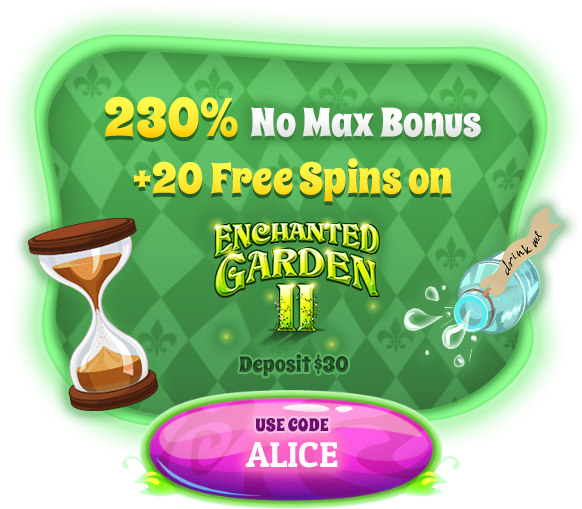
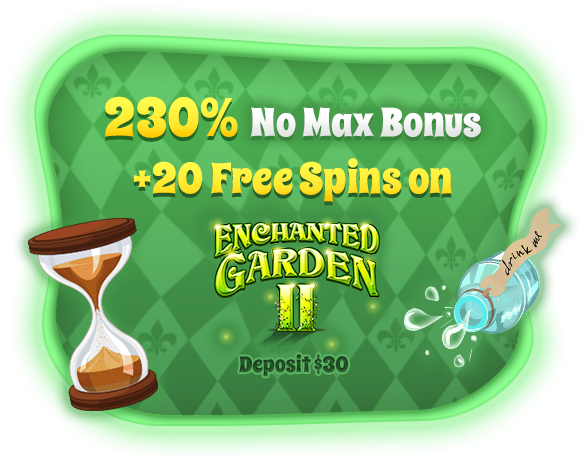
coupons update

diff --git a/src/pages/Homepage/index.js b/src/pages/Homepage/index.js
@@ -53,12 +53,10 @@ class Homepage extends Component {
                       <Col className="d-flex align-items-center justify-content-center justify-content-md-start homepage__character--big mx-auto">
                         <Character
                           onClick={() => {
-                            characters.actions.showSingleCharacter(
-                              queenOfHearts.id
-                            );
+                            characters.actions.showSingleCharacter(alice.id);
                           }}
-                          name={queenOfHearts.name}
-                          image={queenOfHearts.image}
+                          name={alice.name}
+                          image={alice.image}
                           translateX={getRandomInt(5, 15)}
                           translateY={getRandomInt(5, 15)}
                           rotateZ={getRandomInt(4, 8)}
@@ -89,7 +87,7 @@ class Homepage extends Component {
                   {/* Center column start */}
                   <Col className="d-block d-md-flex flex-column order-0 order-md-1 mt-3">
                     <Row className="flex-grow-1 flex-column">
-                      <Col className="d-flex flex-column justify-content-start align-items-center">
+                      <Col className="text-center">
                         <a href="https://www.silveroakcasino.com/">
                           <img
                             src={casinoLogo}
@@ -104,21 +102,21 @@ class Homepage extends Component {
                         <p className="text-white text-center mt-1 mt-md-4 text--accent">
                           Click on a character to reveal your Bonus.
                         </p>
-                      </Col>
-                    </Row>
-                    <Row className="flex-grow-1">
-                      <Col className="d-flex justify-content-center  homepage__character--main mx-auto">
-                        <Character
-                          onClick={() => {
-                            characters.actions.showSingleCharacter(alice.id);
-                          }}
-                          name={alice.name}
-                          image={alice.image}
-                          translateX={getRandomInt(5, 15)}
-                          translateY={getRandomInt(5, 15)}
-                          rotateZ={getRandomInt(4, 8)}
-                          animationDuration={6}
-                        />
+                        <div className="f-flex justify-content-center  homepage__character--main mx-auto mt-0 mt-md-5">
+                          <Character
+                            onClick={() => {
+                              characters.actions.showSingleCharacter(
+                                madHatter.id
+                              );
+                            }}
+                            name={madHatter.name}
+                            image={madHatter.image}
+                            translateX={getRandomInt(5, 15)}
+                            translateY={getRandomInt(5, 15)}
+                            rotateZ={getRandomInt(4, 8)}
+                            animationDuration={6}
+                          />
+                        </div>
                       </Col>
                     </Row>
                   </Col>
@@ -131,11 +129,11 @@ class Homepage extends Component {
                         <Character
                           onClick={() => {
                             characters.actions.showSingleCharacter(
-                              madHatter.id
+                              queenOfHearts.id
                             );
                           }}
-                          name={madHatter.name}
-                          image={madHatter.image}
+                          name={queenOfHearts.name}
+                          image={queenOfHearts.image}
                           translateX={getRandomInt(5, 15)}
                           translateY={getRandomInt(5, 15)}
                           rotateZ={getRandomInt(4, 8)}

diff --git a/src/components/CouponModal/index.js b/src/components/CouponModal/index.js
@@ -1,7 +1,7 @@
 // Dependecies
 import React from 'react';
 import { Modal } from 'react-bootstrap';
-import styled from 'styled-components';
+import styled, { keyframes } from 'styled-components';
 
 // Context
 import { Consumer } from '../../context/AppContext';
@@ -10,6 +10,7 @@ import { Consumer } from '../../context/AppContext';
 import './index.scss';
 
 const CloseButton = styled.button`
+  display: block;
   position: absolute;
   top: ${props => (props.exception ? '-7px' : 0)};
   right: ${props => (props.exception ? '22px' : 0)};
@@ -32,6 +33,67 @@ const CloseButton = styled.button`
   }
 `;
 
+const CTA = styled.a`
+  display: block;
+  position: absolute;
+  bottom: 0;
+  left: ${props => (props.exception ? '46%' : '50%')};
+  transform: translateX(-50%) translateY(40%);
+  width: 300px;
+  height: 105px;
+  background: url(${props => props.ctaImage}) center center / cover;
+  /* overflow: hidden; */
+  z-index: 2;
+  @media (max-width: 576px) {
+    width: 50vw;
+    height: 17.6vw;
+    left: ${props => (props.exception ? '48%' : '50%')};
+  }
+`;
+
+const glow = keyframes`
+0% {
+  box-shadow: 0px 0px 25px 30px #65b434;
+}
+50% {
+  box-shadow: 0px 0px 25px 5px #65b434;
+}
+100% {
+  box-shadow: 0px 0px 25px 30px #65b434;
+}
+`;
+const glowSmall = keyframes`
+0% {
+  box-shadow: 0px 0px 15px 18px #65b434;
+}
+50% {
+  box-shadow: 0px 0px 15px 5px #65b434;
+}
+100% {
+  box-shadow: 0px 0px 15px 18px #65b434;
+}
+`;
+const CRAGlow = styled.div`
+  display: block;
+  position: absolute;
+  bottom: 0;
+  left: ${props => (props.exception ? '46%' : '50%')};
+  transform: translateX(-50%) translateY(40%);
+  width: 244px;
+  height: 63px;
+  border-radius: 25px;
+  box-shadow: 0px 0px 20px 30px #65b434;
+  z-index: 1;
+  animation: ${glow} 2s infinite;
+  @media (max-width: 576px) {
+    width: 35vw;
+    height: 15vw;
+    left: ${props => (props.exception ? '48%' : '50%')};
+    box-shadow: 0px 0px 15px 18px #65b434;
+    animation: ${glowSmall} 2s infinite;
+  }
+`;
+
 class CouponModal extends React.Component {
   render() {
     return (
@@ -40,9 +102,15 @@ class CouponModal extends React.Component {
           const character = characters.list[characters.currentCharacterId];
           return (
             <Modal {...this.props} centered>
-              <a href={character.couponUrl}>
+              <a href={character.couponUrl} ref={node => (this.content = node)}>
                 <img src={character.couponImage} alt={character.name} />
               </a>
+              <CTA
+                href={character.couponUrl}
+                ctaImage={character.couponCTA}
+                exception={character.name === 'White Rabbit'}
+              />
+              <CRAGlow />
               <CloseButton
                 backgroundImage={character.couponCloseButton}
                 exception={character.name === 'White Rabbit'}

diff --git a/src/data/characters.js b/src/data/characters.js
@@ -19,6 +19,13 @@ import aliceCouponCloseButton from '../images/coupons/alice-close.png';
 import cheshireCatCouponCloseButton from '../images/coupons/cheshireCat-close.png';
 import queenOfHeartsCouponCloseButton from '../images/coupons/queenOfHearts-close.png';
 
+import whiteRabbitCouponCTA from '../images/coupons/whiteRabbit-cta.png';
+import caterpillarCouponCTA from '../images/coupons/caterpillar-cta.png';
+import madHatterCouponCTA from '../images/coupons/madHatter-cta.png';
+import aliceCouponCTA from '../images/coupons/alice-cta.png';
+import cheshireCatCouponCTA from '../images/coupons/cheshireCat-cta.png';
+import queenOfHeartsCouponCTA from '../images/coupons/queenOfHearts-cta.png';
+
 const casinoUrl = 'https://www.silveroakcasino.com/';
 
 const characters = [
@@ -29,6 +36,7 @@ const characters = [
     couponCode: 'WHITERABBIT',
     couponImage: whiteRabbitCoupon,
     couponCloseButton: whiteRabbitCouponCloseButton,
+    couponCTA: whiteRabbitCouponCTA,
     couponUrl: `${casinoUrl}?cashier&coupon=WHITERABBIT`
   },
   {
@@ -38,6 +46,7 @@ const characters = [
     couponCode: 'CATERPILLAR',
     couponImage: caterpillarCoupon,
     couponCloseButton: caterpillarCouponCloseButton,
+    couponCTA: caterpillarCouponCTA,
     couponUrl: `${casinoUrl}?cashier&coupon=CATERPILLAR`
   },
   {
@@ -47,6 +56,7 @@ const characters = [
     couponCode: 'MADHATTER',
     couponImage: madHatterCoupon,
     couponCloseButton: madHatterCouponCloseButton,
+    couponCTA: madHatterCouponCTA,
     couponUrl: `${casinoUrl}?cashier&coupon=MADHATTER`
   },
   {
@@ -56,6 +66,7 @@ const characters = [
     couponCode: 'ALICE',
     couponImage: aliceCoupon,
     couponCloseButton: aliceCouponCloseButton,
+    couponCTA: aliceCouponCTA,
     couponUrl: `${casinoUrl}?cashier&coupon=ALICE`
   },
   {
@@ -65,6 +76,7 @@ const characters = [
     couponCode: 'CHESHIRECAT',
     couponImage: cheshireCatCoupon,
     couponCloseButton: cheshireCatCouponCloseButton,
+    couponCTA: cheshireCatCouponCTA,
     couponUrl: `${casinoUrl}?cashier&coupon=CHESHIRECAT`
   },
   {
@@ -74,6 +86,7 @@ const characters = [
     couponCode: 'HEARTS375',
     couponImage: queenOfHeartsCoupon,
     couponCloseButton: queenOfHeartsCouponCloseButton,
+    couponCTA: queenOfHeartsCouponCTA,
     couponUrl: `${casinoUrl}?cashier&coupon=HEARTS375`
   }
 ];
